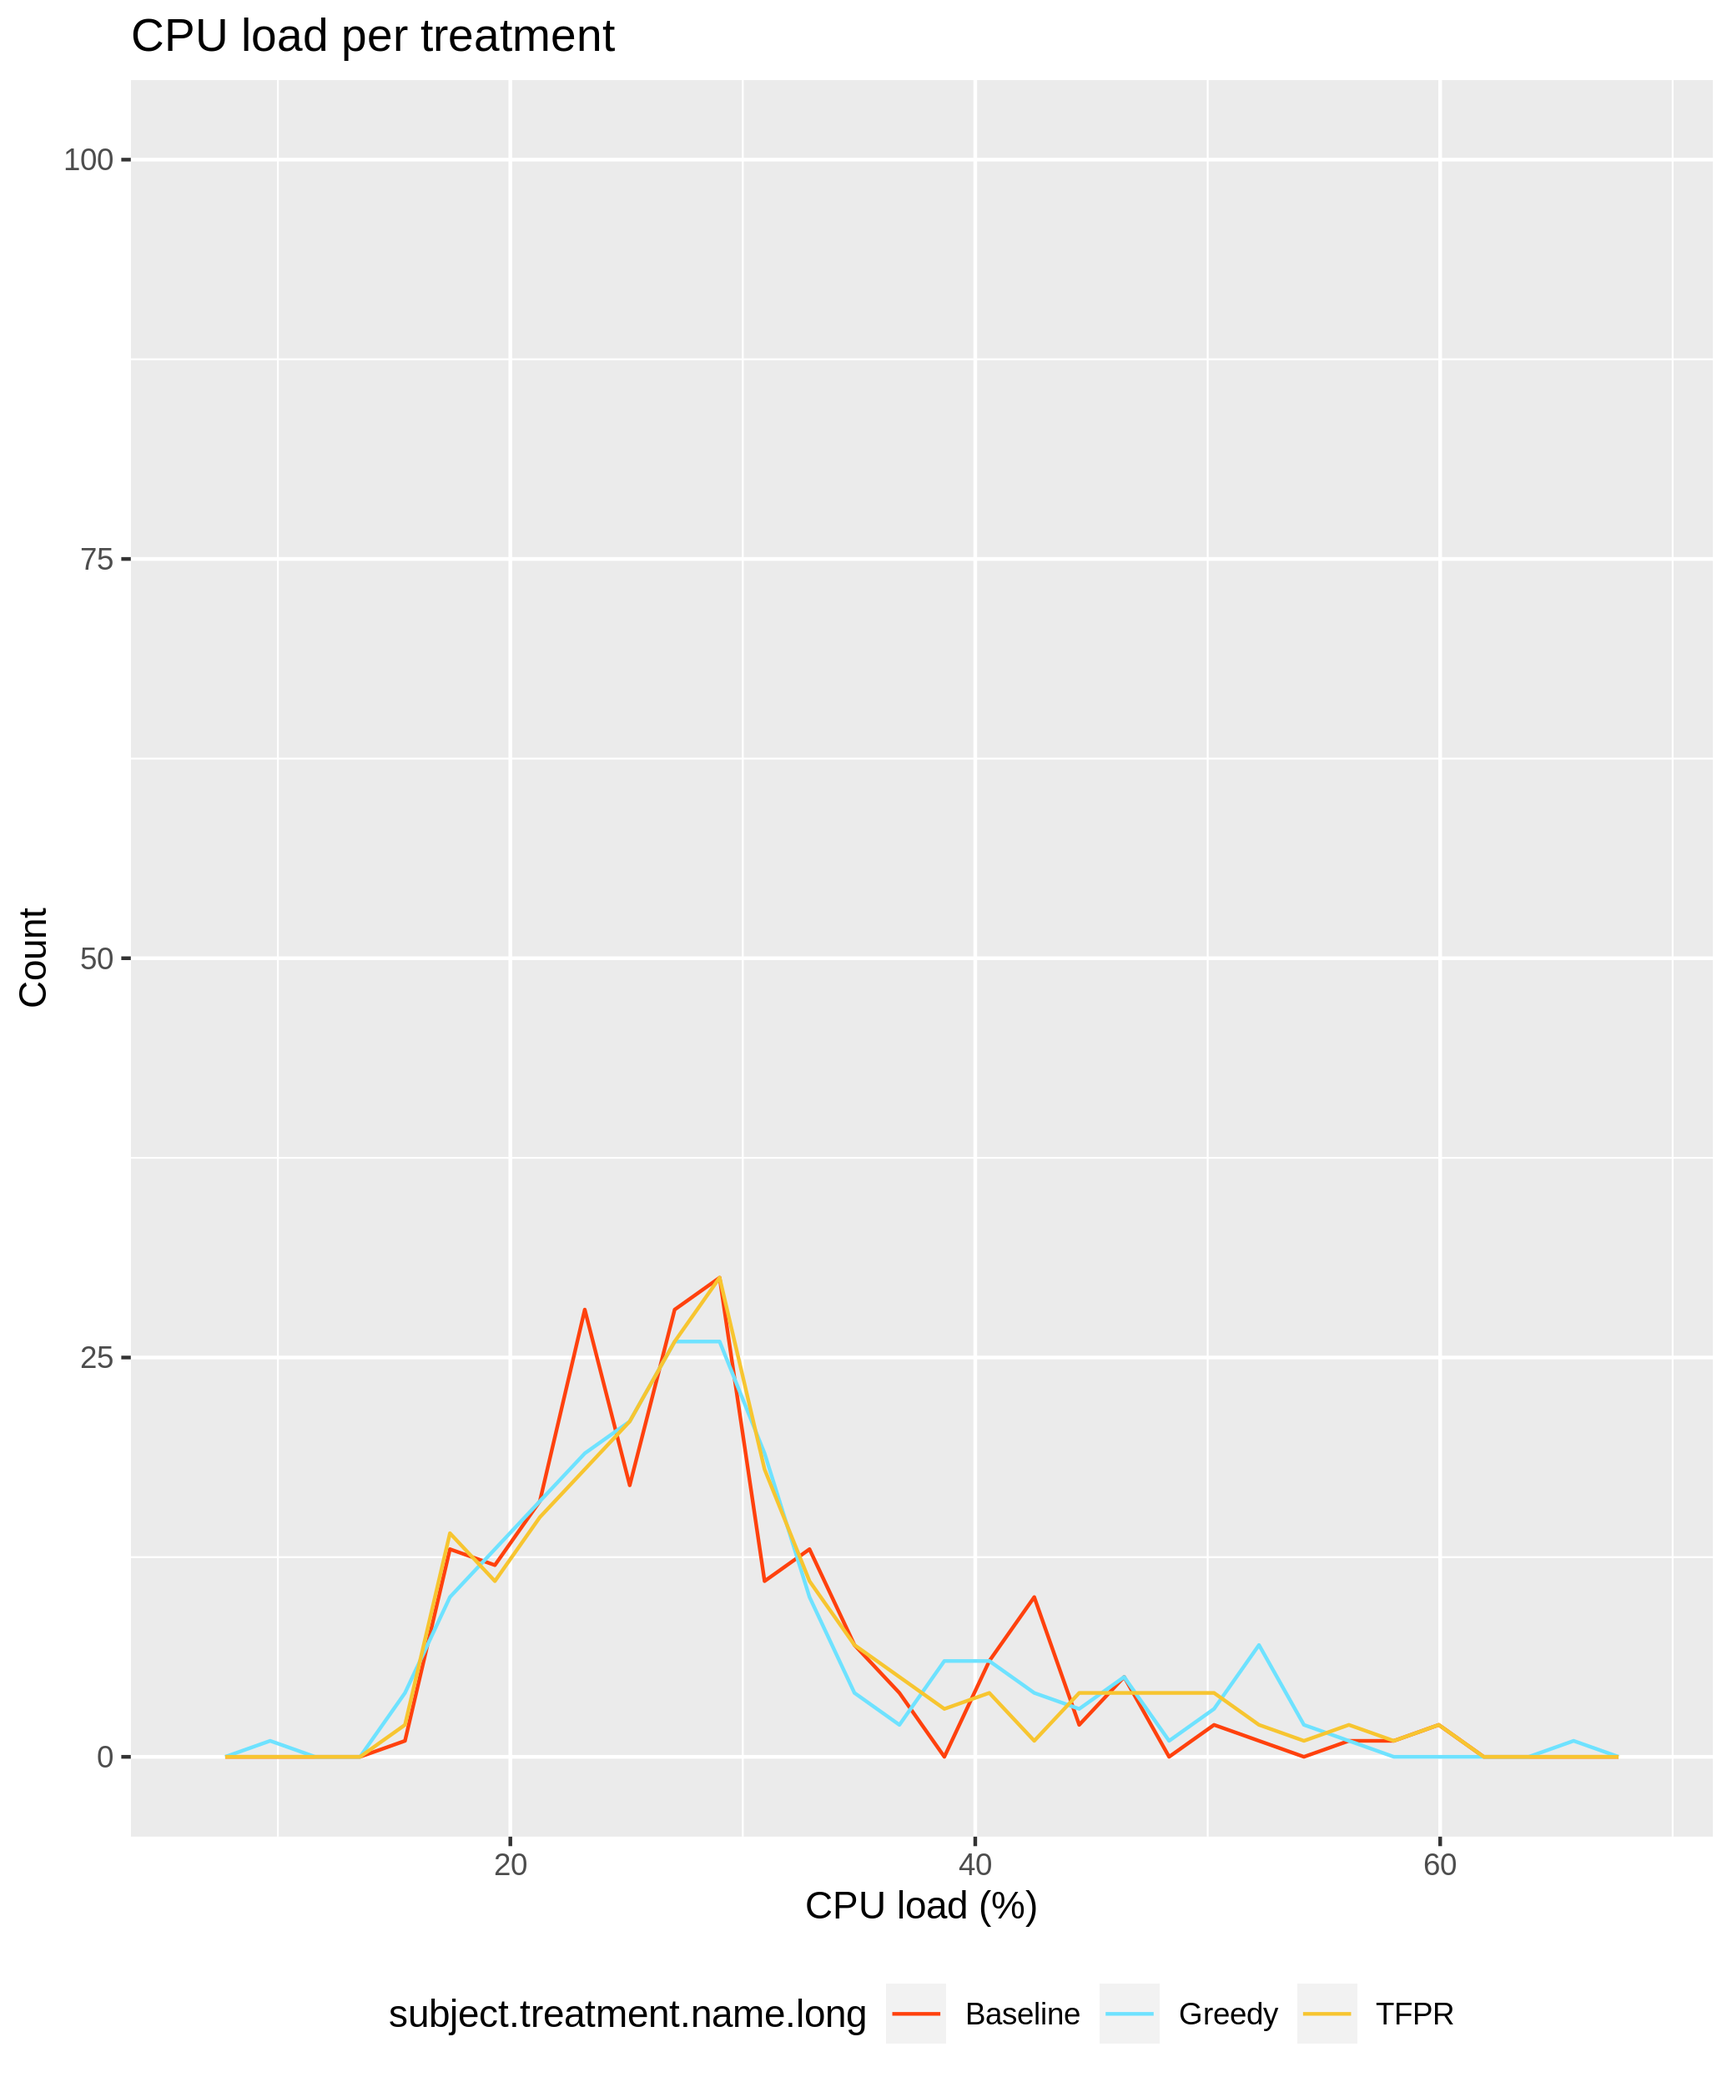
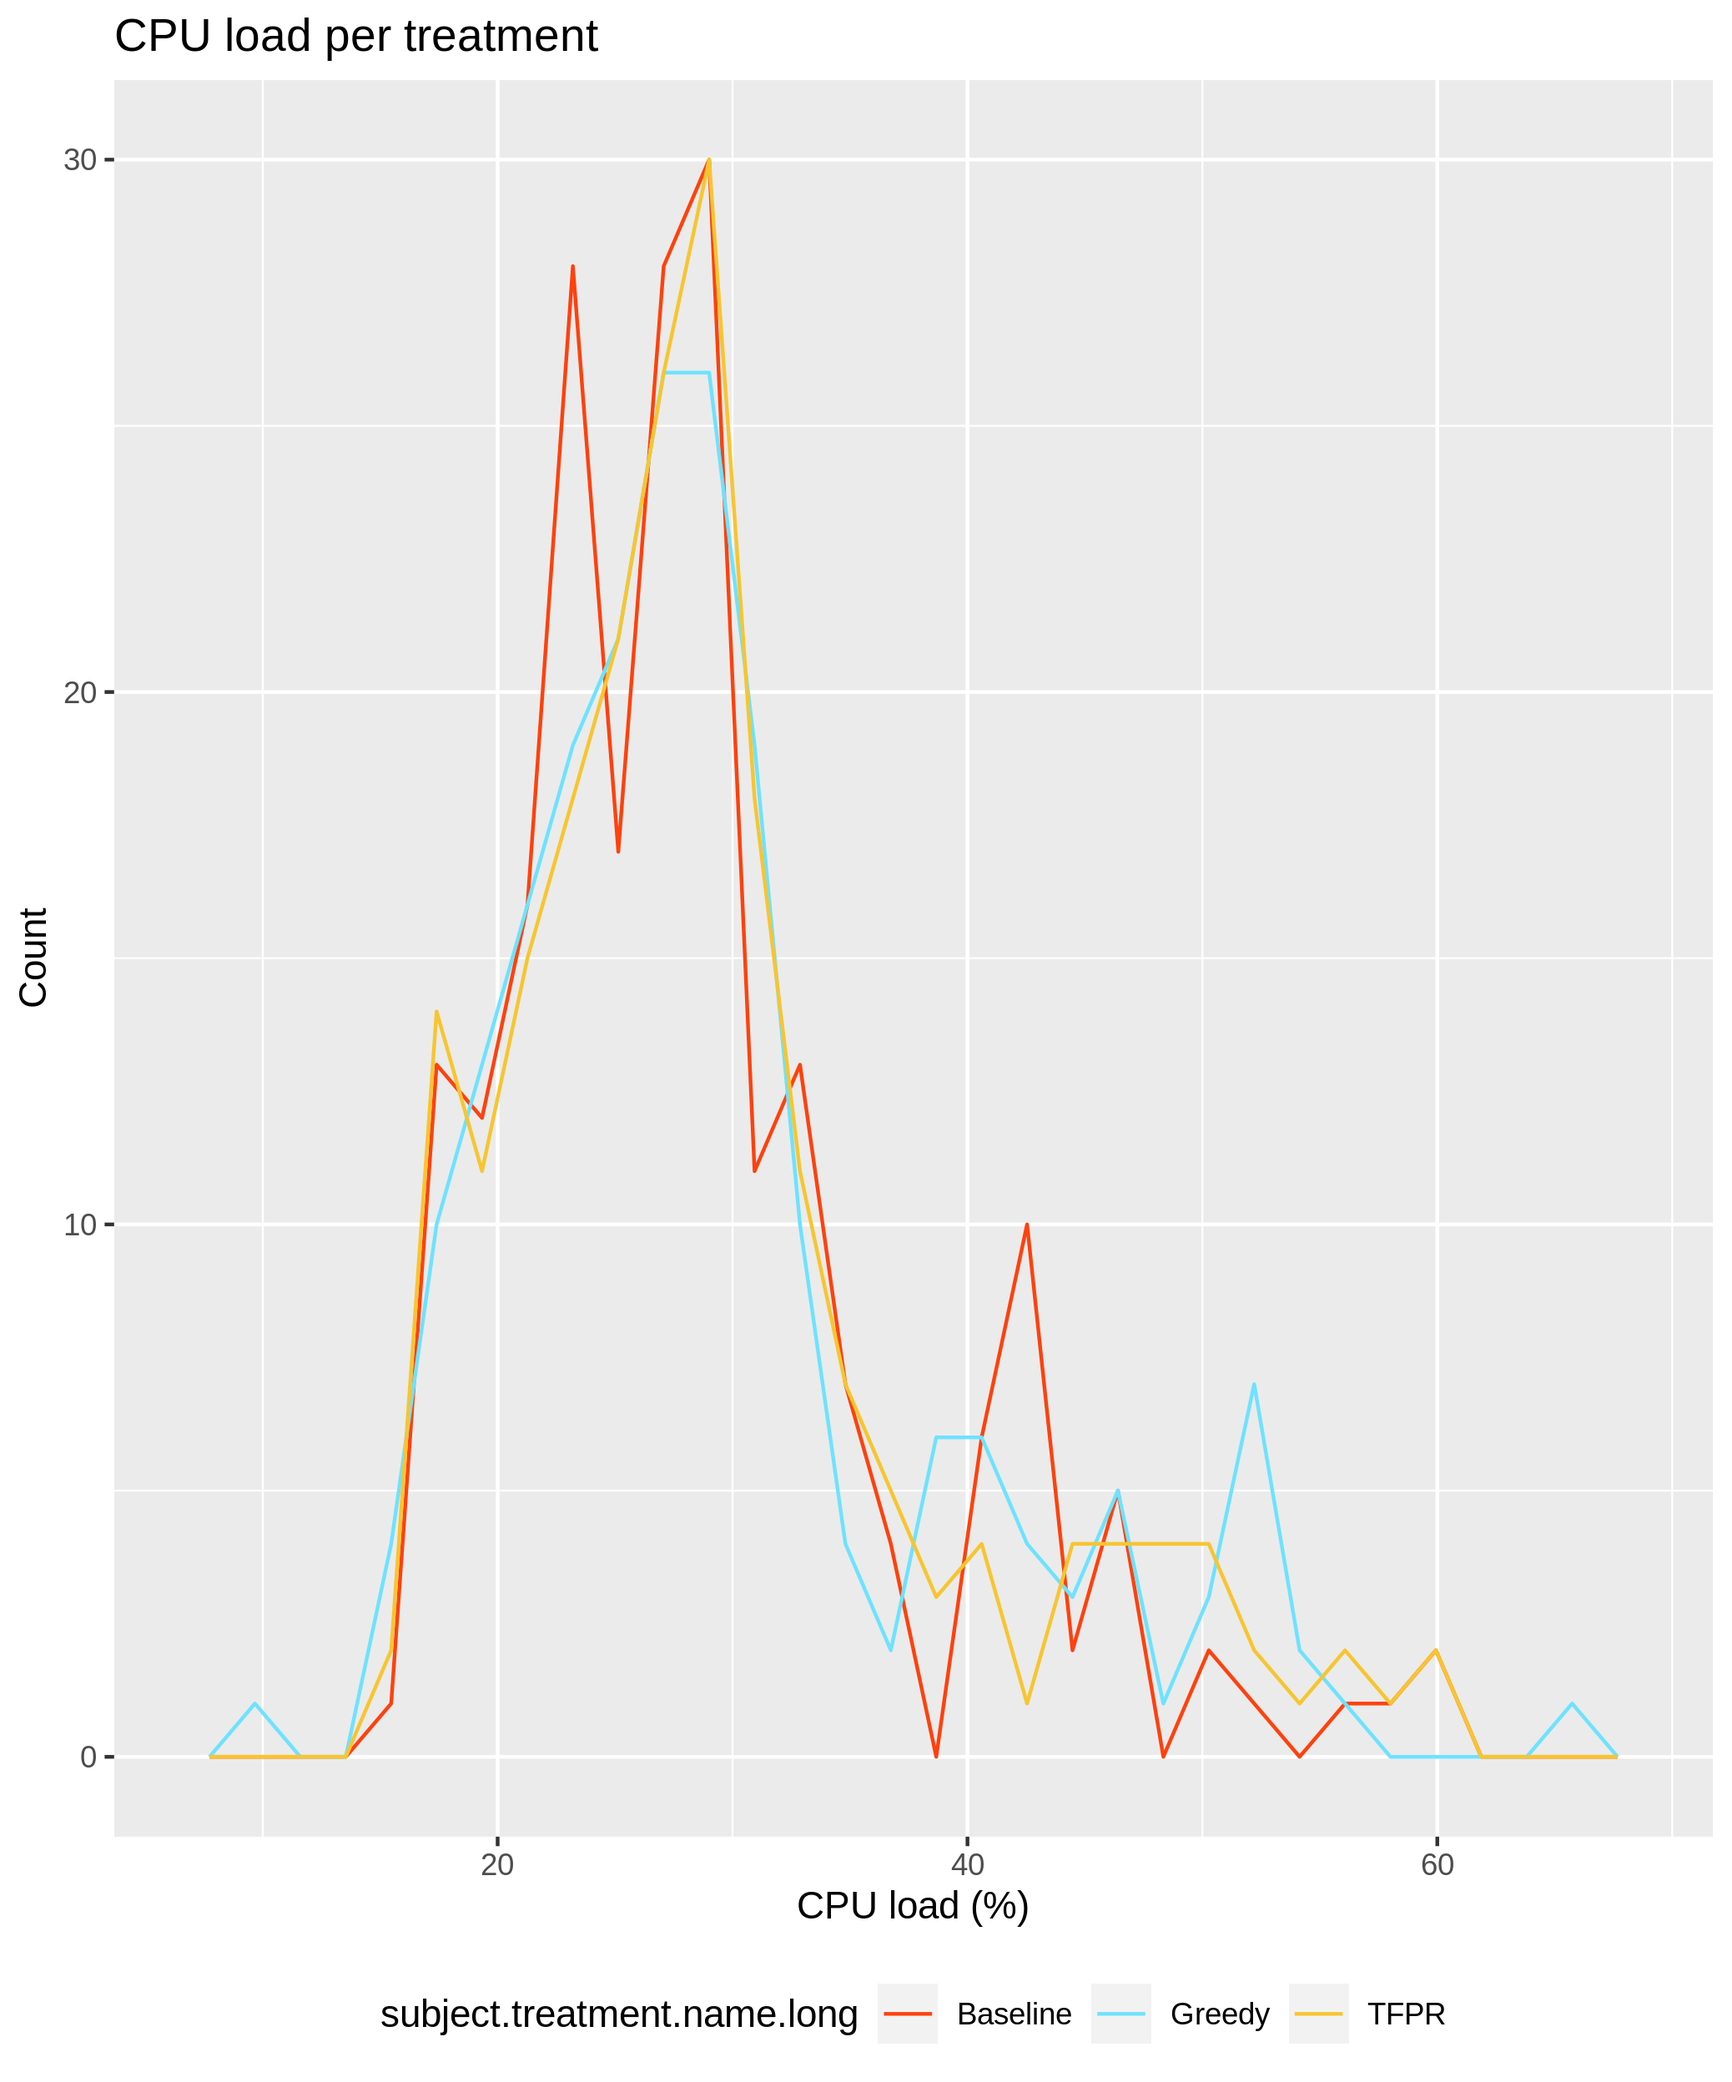
Remove  exapnd limits in Y for freqpoly

diff --git a/data-analysis/output/rq1/summary-battery.tex b/data-analysis/output/rq1/summary-battery.tex
@@ -1,5 +1,5 @@
 % latex table generated in R 4.0.2 by xtable 1.8-4 package
-% Fri Aug  7 21:33:58 2020
+% Fri Aug  7 21:34:55 2020
 \begin{table}[ht]
 \centering
 \begin{tabular}{rrrrrrr}

diff --git a/data-analysis/output/rq1/summary-cpu.tex b/data-analysis/output/rq1/summary-cpu.tex
@@ -1,5 +1,5 @@
 % latex table generated in R 4.0.2 by xtable 1.8-4 package
-% Fri Aug  7 21:33:58 2020
+% Fri Aug  7 21:34:55 2020
 \begin{table}[ht]
 \centering
 \begin{tabular}{rrrrrrr}

diff --git a/data-analysis/output/rq1/summary-memory.tex b/data-analysis/output/rq1/summary-memory.tex
@@ -1,5 +1,5 @@
 % latex table generated in R 4.0.2 by xtable 1.8-4 package
-% Fri Aug  7 21:33:58 2020
+% Fri Aug  7 21:34:55 2020
 \begin{table}[ht]
 \centering
 \begin{tabular}{rrrrrrr}

diff --git a/data-analysis/output/rq1/summary-duration.tex b/data-analysis/output/rq1/summary-duration.tex
@@ -1,5 +1,5 @@
 % latex table generated in R 4.0.2 by xtable 1.8-4 package
-% Fri Aug  7 21:33:58 2020
+% Fri Aug  7 21:34:55 2020
 \begin{table}[ht]
 \centering
 \begin{tabular}{rrrr}
